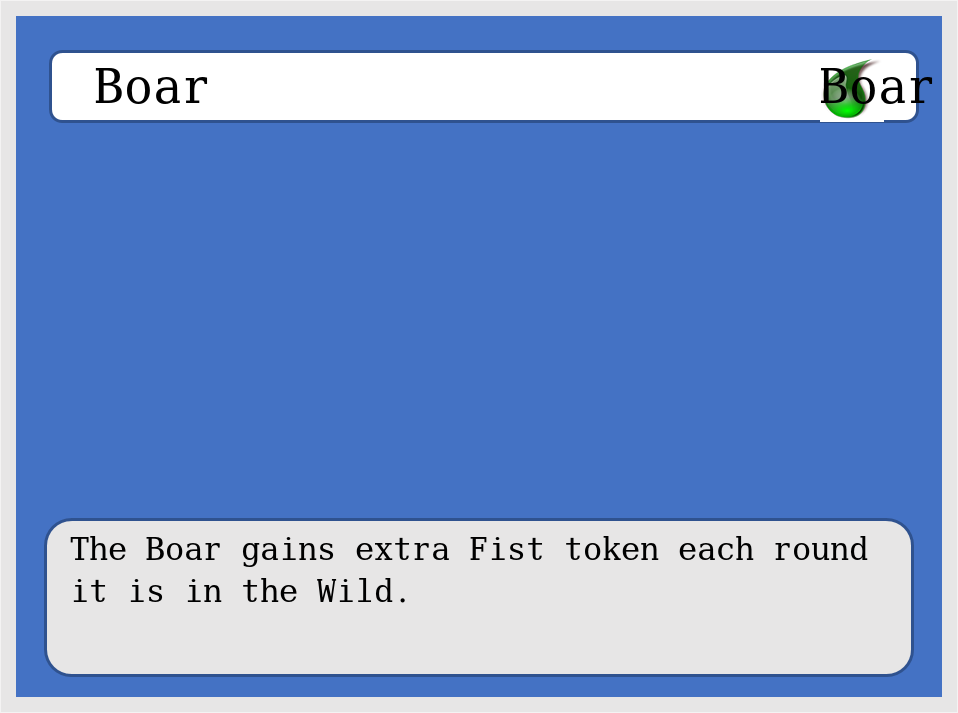
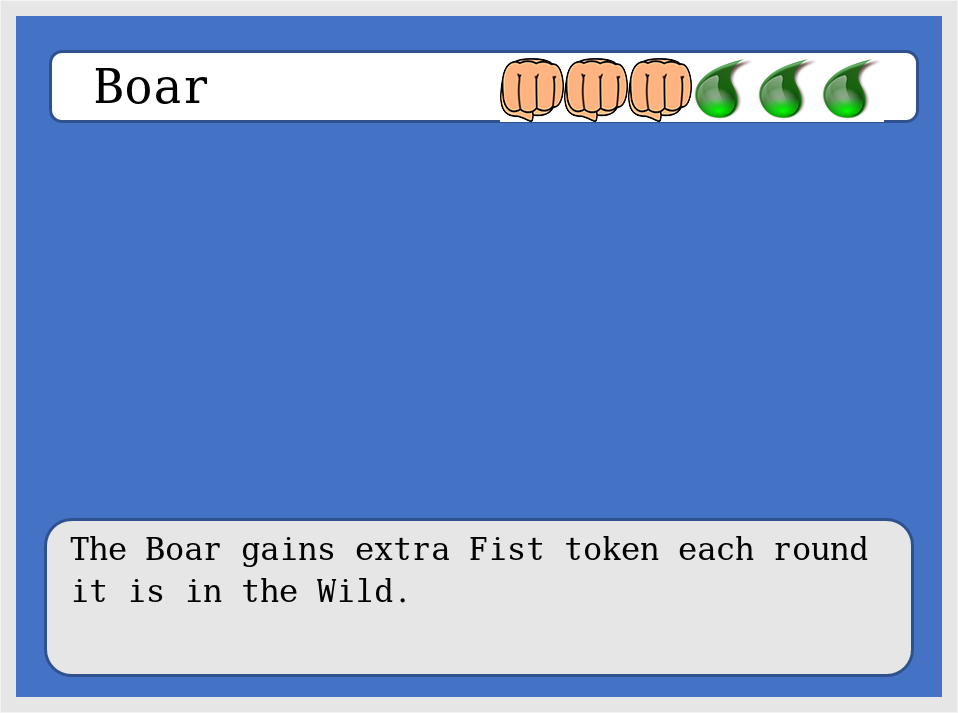
Finish creature update

Changed region(s): [[0.5146, 0.0617, 0.9687, 0.1851]]

diff --git a/update.py b/update.py
@@ -55,7 +55,6 @@ for i in range(2,sheet.max_row + 1):
 	#Get the right template
 	background = Image.open('templates/' + folder + ".png")
 	draw = ImageDraw.Draw(background)
-	
 
 	#Draw type-specific things
 	
@@ -66,21 +65,22 @@ for i in range(2,sheet.max_row + 1):
 		draw.text(CREATURE_NAME_LOCATION, str(sheet.cell(row=i,column=COLUMN_NAME).value), TEXT_COLOR, font=creature_name_font)
 		
 		health = str(sheet.cell(row=i, column=COLUMN_HEALTH).value).split(',')
-		img = Image.open('icons/' + health[0] + '.png')
-		location = (CREATURE_RIGHT_BAR_LOCATION[0], CREATURE_RIGHT_BAR_LOCATION[1], CREATURE_RIGHT_BAR_LOCATION[0] + 64, CREATURE_RIGHT_BAR_LOCATION[1] + 64)
-		background.paste(img, location)
-		#background.paste(img)
 		
-		print("Modes")
-		print(img.mode)
-		print(background.mode)
+		offset = CREATURE_TOKEN_WIDTH
 		
-		img.close()
-		
-		draw.text(CREATURE_RIGHT_BAR_LOCATION, str(sheet.cell(row=i,column=COLUMN_NAME).value), TEXT_COLOR, font=creature_name_font)
+		for x in range(0, len(health)):
+			offset = offset - CREATURE_TOKEN_WIDTH
+			health[x] = health[x].strip()
+			img = Image.open('icons/' + health[x] + '.png')
+			
+			#Draw each icon 3 times
+			for y in range(0,3):
+				location = (CREATURE_RIGHT_BAR_LOCATION[0] - CREATURE_TOKEN_WIDTH * x - offset, CREATURE_RIGHT_BAR_LOCATION[1], CREATURE_RIGHT_BAR_LOCATION[0] - CREATURE_TOKEN_WIDTH * (x-1) - offset, CREATURE_RIGHT_BAR_LOCATION[1] + CREATURE_TOKEN_WIDTH)
+				offset = offset + CREATURE_TOKEN_WIDTH
+				background.paste(img, location)
 
-		
-		
+		img.close()
+
 
 		#Text wrap
 		if sheet.cell(row=i,column=COLUMN_TEXT).value is not None:
